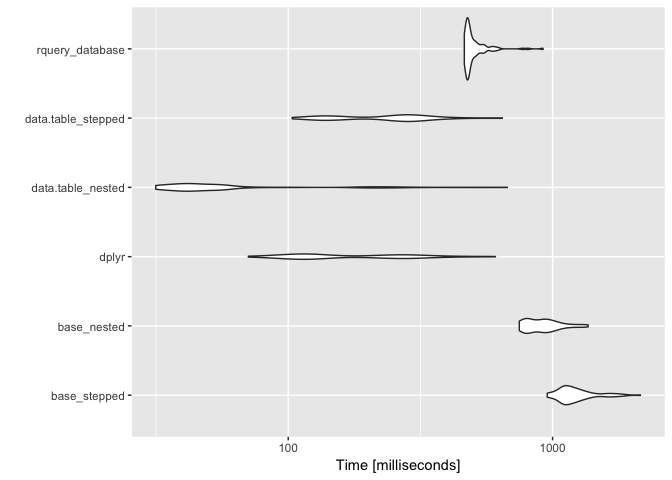
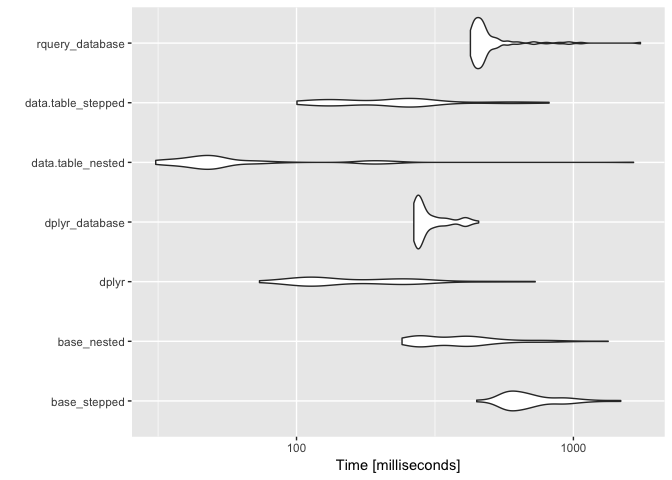
Add in dplyr example.  Guessing speed difference is extra step in rquery implementation.

diff --git a/extras/SimpleTask.md b/extras/SimpleTask.md
@@ -84,6 +84,8 @@ mtcarsdb %.>%
     ## 6                                                    Filter: (cyl = '8'::double precision)
 
 ``` r
+mtcarst <- dplyr::tbl(db, "mtcarsdb")
+
 timings <- microbenchmark(
   base_stepped = {
     . <- mtcarsb
@@ -100,6 +102,13 @@ timings <- microbenchmark(
       select(mpg, cyl, wt) %>%
       nrow
   },
+  dplyr_database = {
+    res <- mtcarst         %>%
+      filter(cyl == 8)     %>%
+      select(mpg, cyl, wt) %>%
+      tally
+    as.numeric(as.data.frame(res)[[1]][[1]])
+  },
   data.table_nested = {
     nrow(mtcarsd[cyl==8, c("mpg", "cyl", "wt")])
   },
@@ -109,11 +118,11 @@ timings <- microbenchmark(
     .N                    ]
   },
   rquery_database = {
-    res <- mtcarsdb %.>% 
-      select_rows_nse(., cyl == 8) %.>% 
+    res <- mtcarsdb                       %.>% 
+      select_rows_nse(., cyl == 8)        %.>% 
       select_columns(., qc(mpg, cyl, wt)) %.>%
       sql_node(., "n" := "COUNT(1)", 
-               orig_columns = FALSE) %.>%
+               orig_columns = FALSE)      %.>%
       execute(db, .)
     as.numeric(res[[1]][[1]])
   }
@@ -123,20 +132,22 @@ print(timings)
 ```
 
     ## Unit: milliseconds
-    ##                expr       min         lq       mean     median         uq
-    ##        base_stepped 954.72239 1097.44422 1242.94071 1179.27912 1300.91262
-    ##         base_nested 748.62681  799.64760  929.75215  916.99677 1004.47287
-    ##               dplyr  70.68412  115.19450  194.54565  132.10756  272.04900
-    ##   data.table_nested  31.53406   39.06388   81.29942   45.09571   57.20796
-    ##  data.table_stepped 103.57988  144.79269  246.15669  264.79787  297.08095
-    ##     rquery_database 463.71270  475.78697  508.33065  480.03343  511.98086
+    ##                expr       min        lq      mean    median        uq
+    ##        base_stepped 447.52068 582.55921 713.38291 654.42452 787.10021
+    ##         base_nested 240.50462 282.67886 409.55758 385.06830 456.02909
+    ##               dplyr  73.50962 110.98097 186.07577 130.17617 238.90878
+    ##      dplyr_database 265.20716 273.19135 304.20024 280.79591 315.92071
+    ##   data.table_nested  31.01306  42.19911  85.27903  49.50752  65.30889
+    ##  data.table_stepped 100.38787 140.55734 248.12110 236.01903 269.56178
+    ##     rquery_database 424.64349 443.63297 511.61300 462.98186 492.11455
     ##        max neval
-    ##  2150.6464   100
-    ##  1363.6790   100
-    ##   607.8737   100
-    ##   675.2933   100
-    ##   646.3215   100
-    ##   920.7828   100
+    ##  1482.5111   100
+    ##  1335.3310   100
+    ##   727.6659   100
+    ##   454.8025   100
+    ##  1649.2550   100
+    ##   816.7377   100
+    ##  1746.4671   100
 
 ``` r
 autoplot(timings)
